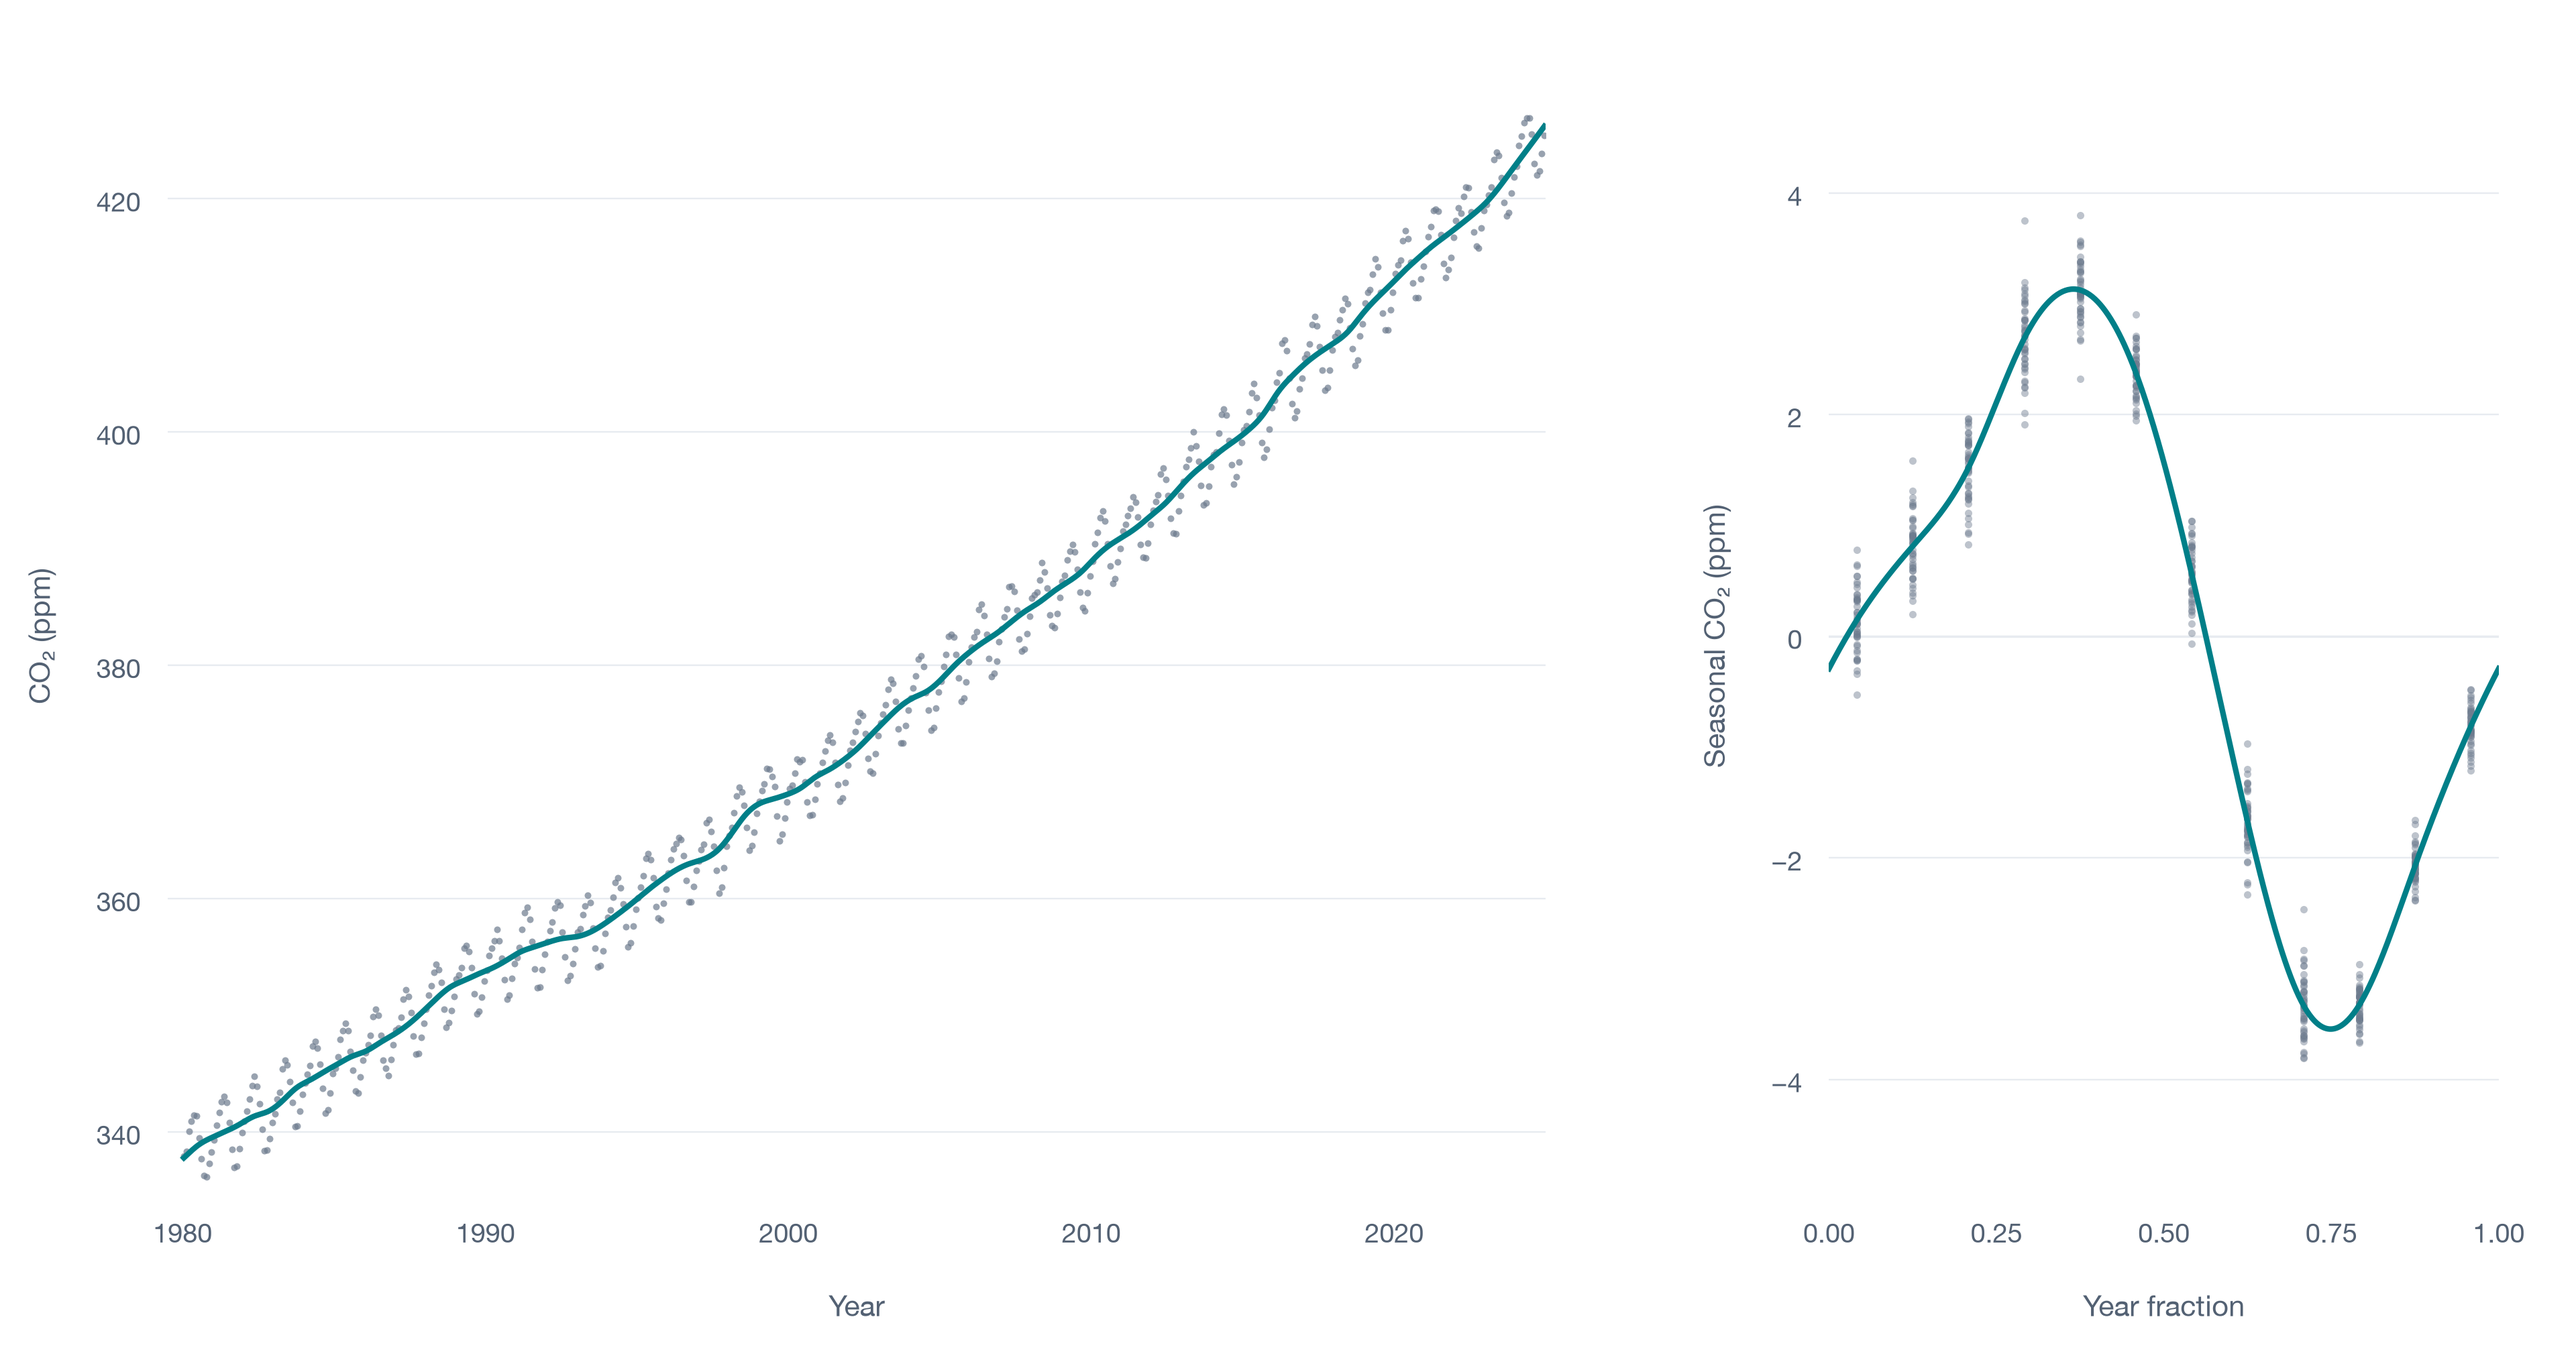
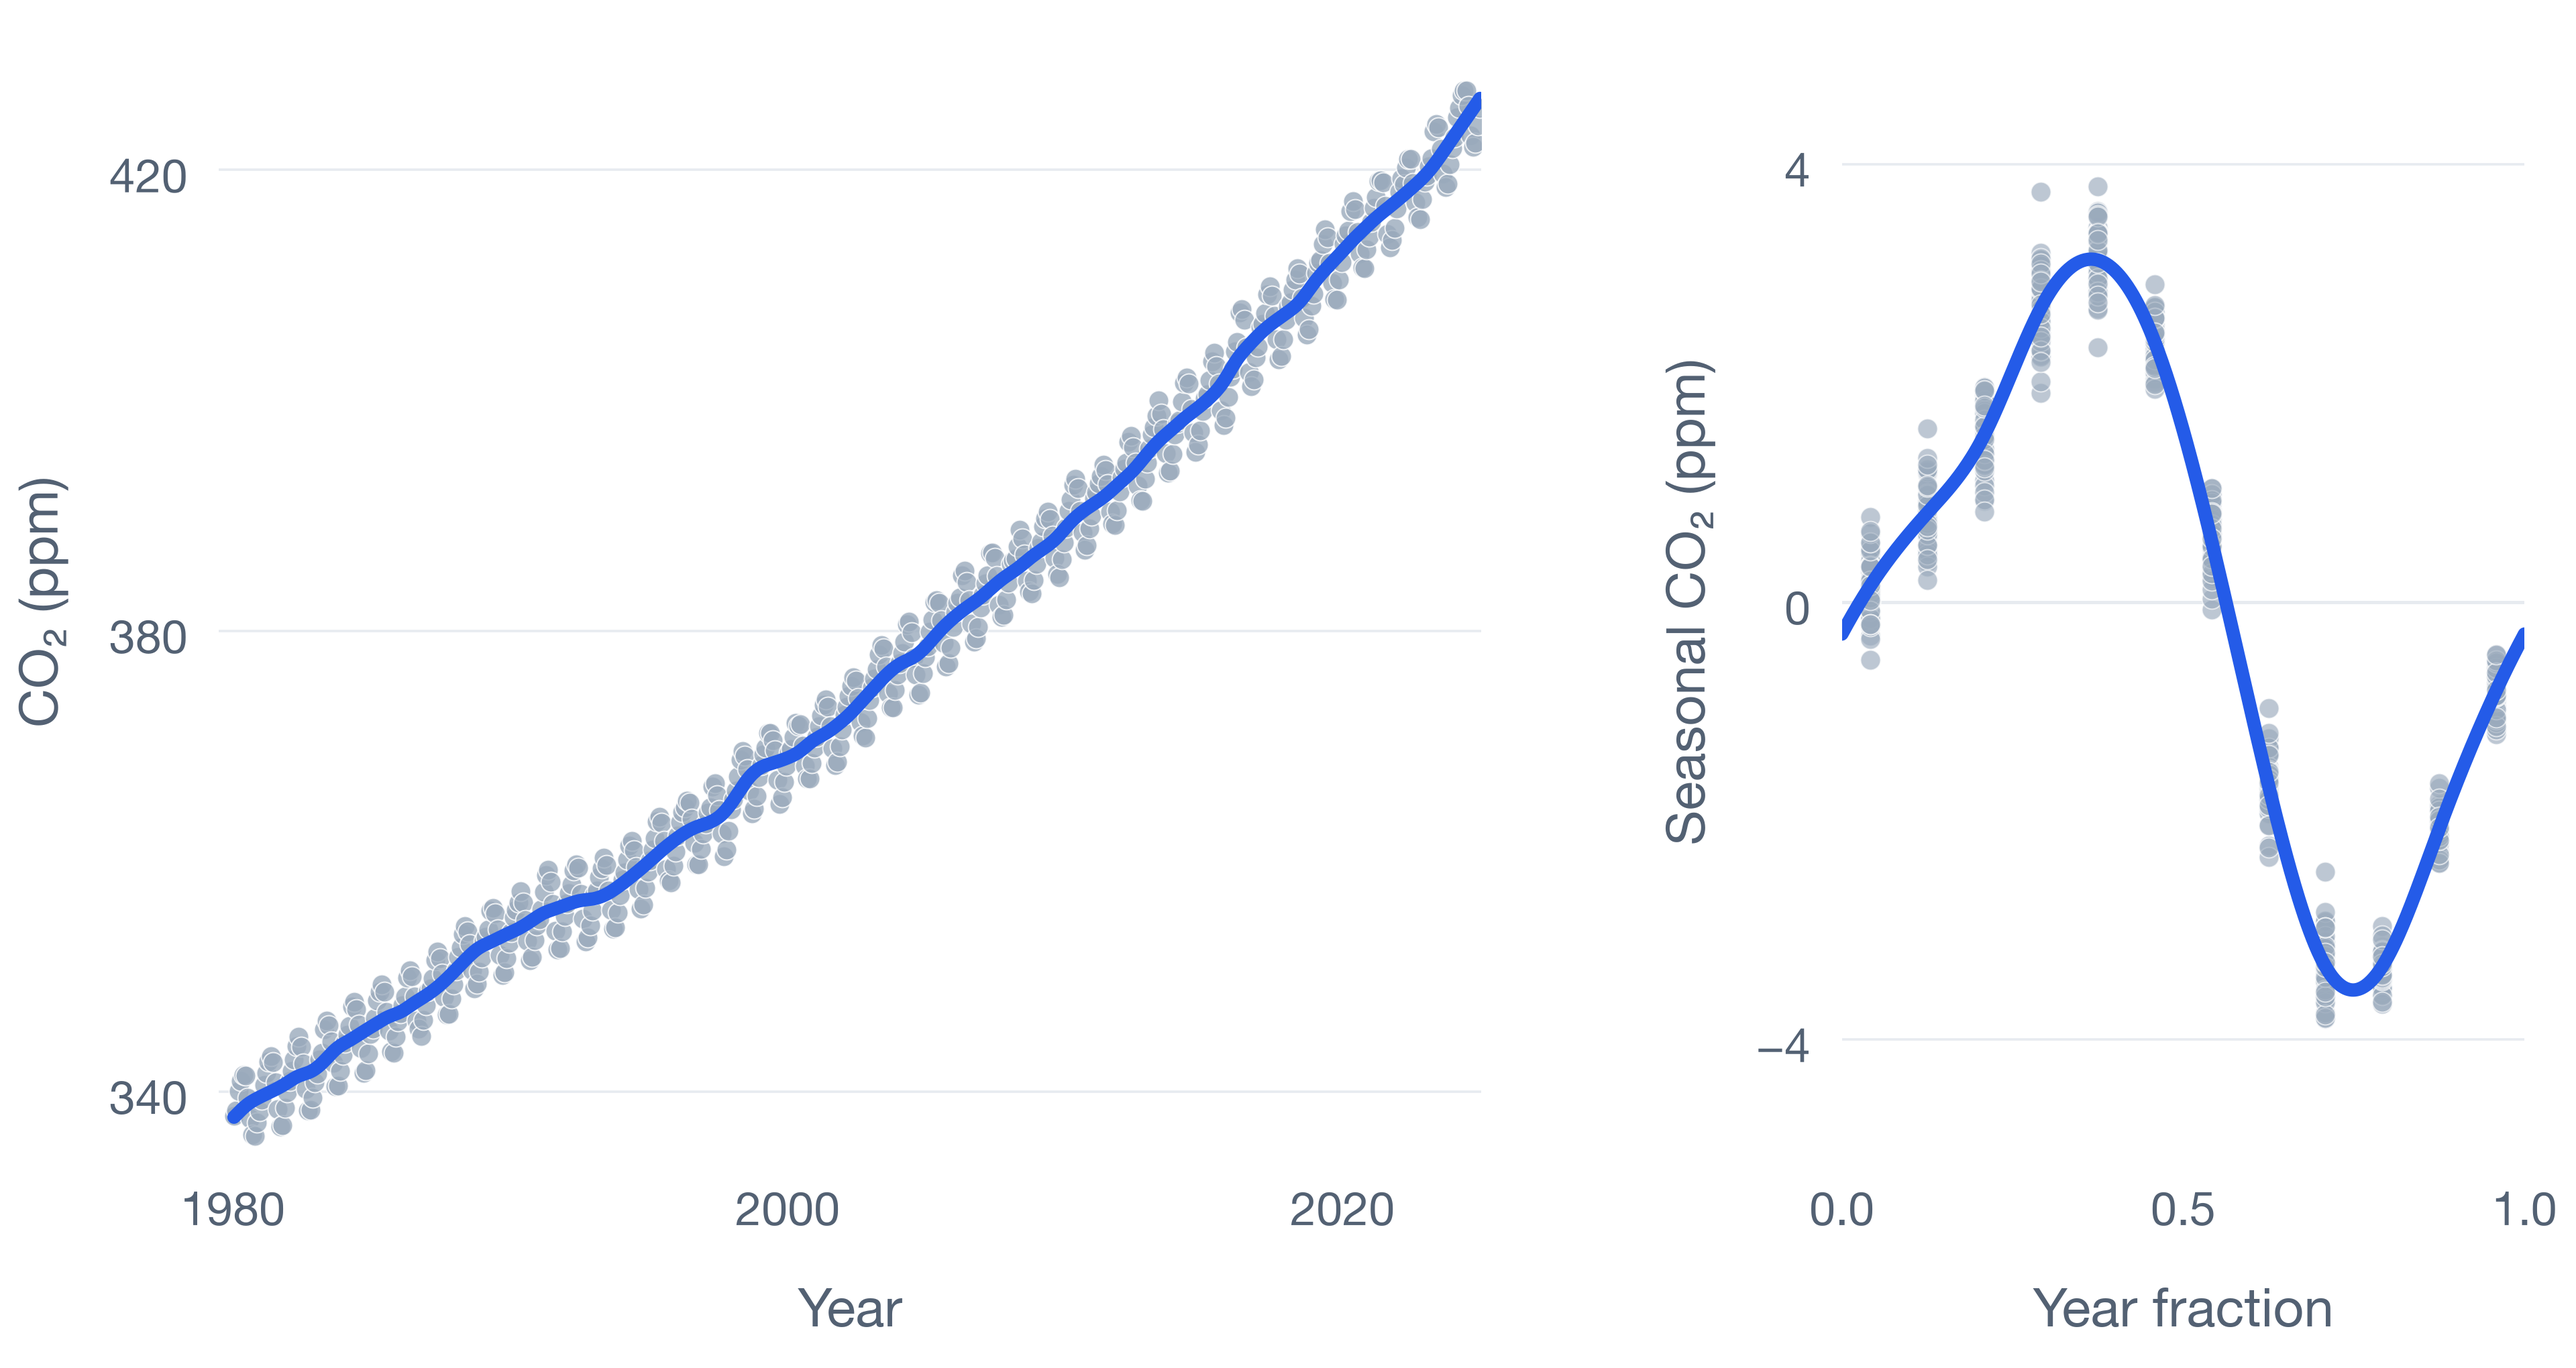
Enlarge README plot marks and remove the introductory caption and code

diff --git a/scripts/gen_readme_co2.py b/scripts/gen_readme_co2.py
@@ -25,9 +25,9 @@ OUTPUT = ROOT / 'docs/images'
 FORMULA = 'co2 ~ s(time, k=100) + s(phase, periodic=true, period=1, k=12)'
 THEMES = {
     'light': dict(background='#ffffff', ink='#536173', grid='#e7ebf0',
-                  data='#6d7b8e', fit='#007f88'),
+                  data='#9aaabc', fit='#245be8'),
     'dark': dict(background='#0d1117', ink='#a8b4c2', grid='#26303e',
-                 data='#8797ac', fit='#70d5cf'),
+                 data='#6f8aa9', fit='#70b8ff'),
 }
 
 
@@ -63,33 +63,38 @@ def fit():
 
 def draw(data, trend, seasonal, theme, path):
     plt.rcParams.update({'font.family': ['Helvetica Neue', 'DejaVu Sans'],
-                         'font.size': 13, 'savefig.bbox': None})
+                         'font.size': 22, 'savefig.bbox': None})
     fig = plt.figure(figsize=(16, 8.5), dpi=240, facecolor=theme['background'])
-    left = fig.add_axes((0.065, 0.13, 0.535, 0.81), facecolor=theme['background'])
-    right = fig.add_axes((0.710, 0.13, 0.26, 0.81), facecolor=theme['background'])
+    left = fig.add_axes((0.085, 0.16, 0.49, 0.80), facecolor=theme['background'])
+    right = fig.add_axes((0.715, 0.16, 0.265, 0.80), facecolor=theme['background'])
     time = np.linspace(data.time.min(), data.time.max(), 1600)
     phase = np.linspace(0, 1, 500)
     # Height carries measured CO2, and lines carry the two additive terms.
-    left.scatter(data.time, data.co2, s=9, color=theme['data'],
-                 alpha=0.7, linewidth=0, zorder=2)
-    left.plot(time, trend(time), color=theme['fit'], linewidth=2.5, zorder=3)
+    left.scatter(data.time, data.co2, s=80, color=theme['data'],
+                 alpha=0.8, edgecolors=theme['background'], linewidth=0.6, zorder=2)
+    left.plot(time, trend(time), color=theme['fit'], linewidth=6,
+              solid_capstyle='round', zorder=3)
     left.set(xlim=(1979.5, 2025), ylim=(335, 430), xlabel='Year', ylabel='CO₂ (ppm)')
-    left.set_xticks([1980, 1990, 2000, 2010, 2020])
-    left.set_yticks([340, 360, 380, 400, 420])
+    left.set_xticks([1980, 2000, 2020])
+    left.set_yticks([340, 380, 420])
 
-    right.scatter(data.phase, data.co2.to_numpy() - trend(data.time), s=11,
-                  color=theme['data'], alpha=0.45, linewidth=0, zorder=2)
-    right.plot(phase, seasonal(phase), color=theme['fit'], linewidth=2.5, zorder=3)
-    right.axhline(0, color=theme['grid'], linewidth=1, zorder=1)
+    right.scatter(data.phase, data.co2.to_numpy() - trend(data.time), s=80,
+                  color=theme['data'], alpha=0.65, edgecolors=theme['background'],
+                  linewidth=0.6, zorder=2)
+    right.plot(phase, seasonal(phase), color=theme['fit'], linewidth=6,
+               solid_capstyle='round', zorder=3)
+    right.axhline(0, color=theme['grid'], linewidth=1.5, zorder=1)
     right.set(xlim=(0, 1), ylim=(-5, 5), xlabel='Year fraction', ylabel='Seasonal CO₂ (ppm)')
-    right.set_xticks([0, 0.25, 0.5, 0.75, 1])
-    right.set_yticks([-4, -2, 0, 2, 4])
+    right.set_xticks([0, 0.5, 1])
+    right.set_yticks([-4, 0, 4])
     for ax in (left, right):
-        ax.grid(axis='y', color=theme['grid'], linewidth=0.7)
+        ax.grid(axis='y', color=theme['grid'], linewidth=1.1)
         ax.set_axisbelow(True)
-        ax.tick_params(length=0, pad=12, labelsize=12, colors=theme['ink'])
+        ax.tick_params(length=0, pad=14, labelsize=21, colors=theme['ink'])
         ax.xaxis.label.set_color(theme['ink'])
         ax.yaxis.label.set_color(theme['ink'])
+        ax.xaxis.label.set_fontsize(24)
+        ax.yaxis.label.set_fontsize(24)
         ax.xaxis.labelpad = 18
         ax.yaxis.labelpad = 18
         for spine in ax.spines.values():

diff --git a/README.md b/README.md
@@ -16,26 +16,6 @@ One Rust engine serves both the Python package (`gamfit`) and the CLI (`gam`).
   <img alt="An additive fit to 540 real monthly CO₂ measurements from 1980–2024. Left: measurements and the fitted long-term trend. Right: detrended measurements and the fitted annual cycle." src="docs/images/readme_co2.png" width="1200">
 </picture>
 
-[NOAA/Scripps CO₂ measurements](https://gml.noaa.gov/ccgg/trends/data.html),
-1980–2024: measurements and fitted trend (left); detrended measurements and
-fitted annual cycle (right). Both components come from one additive fit.
-[Reproduce the figure](scripts/gen_readme_co2.py).
-
-```python
-import pandas as pd
-import gamfit
-
-# 133 rows: head acceleration of a crash-test dummy, milliseconds after impact.
-mcycle = pd.read_csv("https://vincentarelbundock.github.io/Rdatasets/csv/MASS/mcycle.csv")
-
-# The mean and the noise level are both smooth functions of time.
-model = gamfit.fit(mcycle, "accel ~ s(times)", noise_formula="s(times)")
-
-bands = model.predict(mcycle, interval=0.95, observation_interval=True)
-print(bands[["posterior_mean", "posterior_mean_lower", "posterior_mean_upper",
-             "observation_lower", "observation_upper"]].head())
-```
-
 Docs: <https://gamfit.readthedocs.io/>. PyPI: <https://pypi.org/project/gamfit/>.
 Contributions of every kind are welcome.
 
